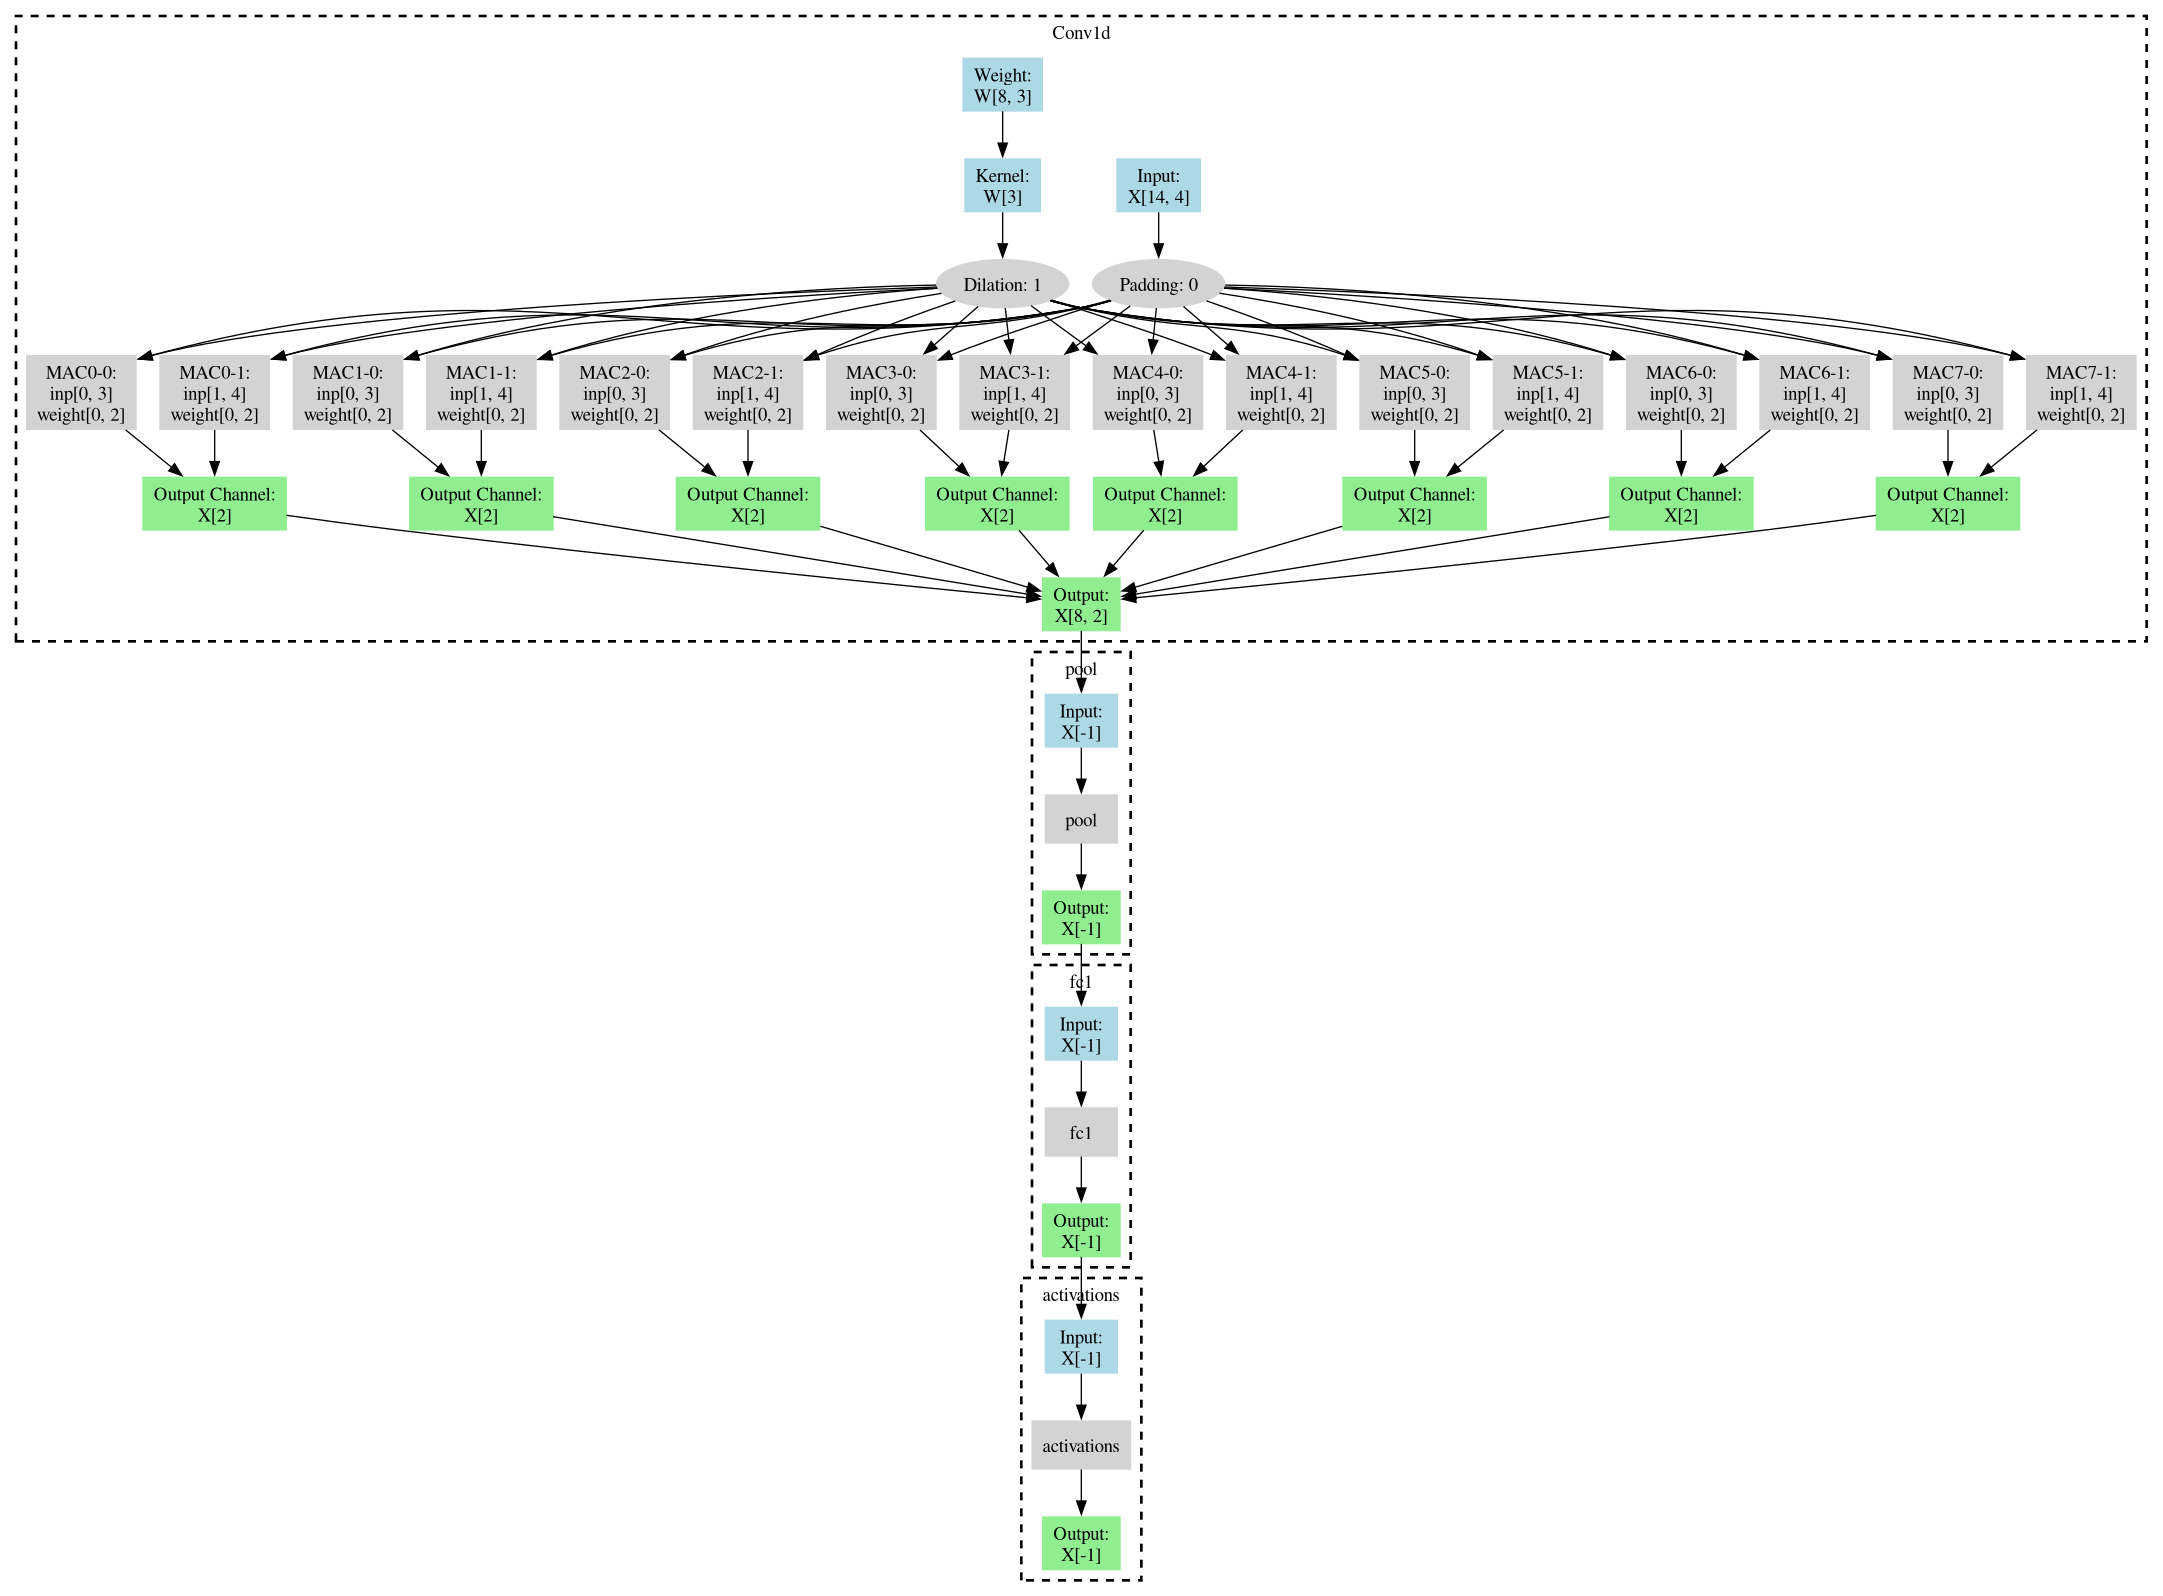
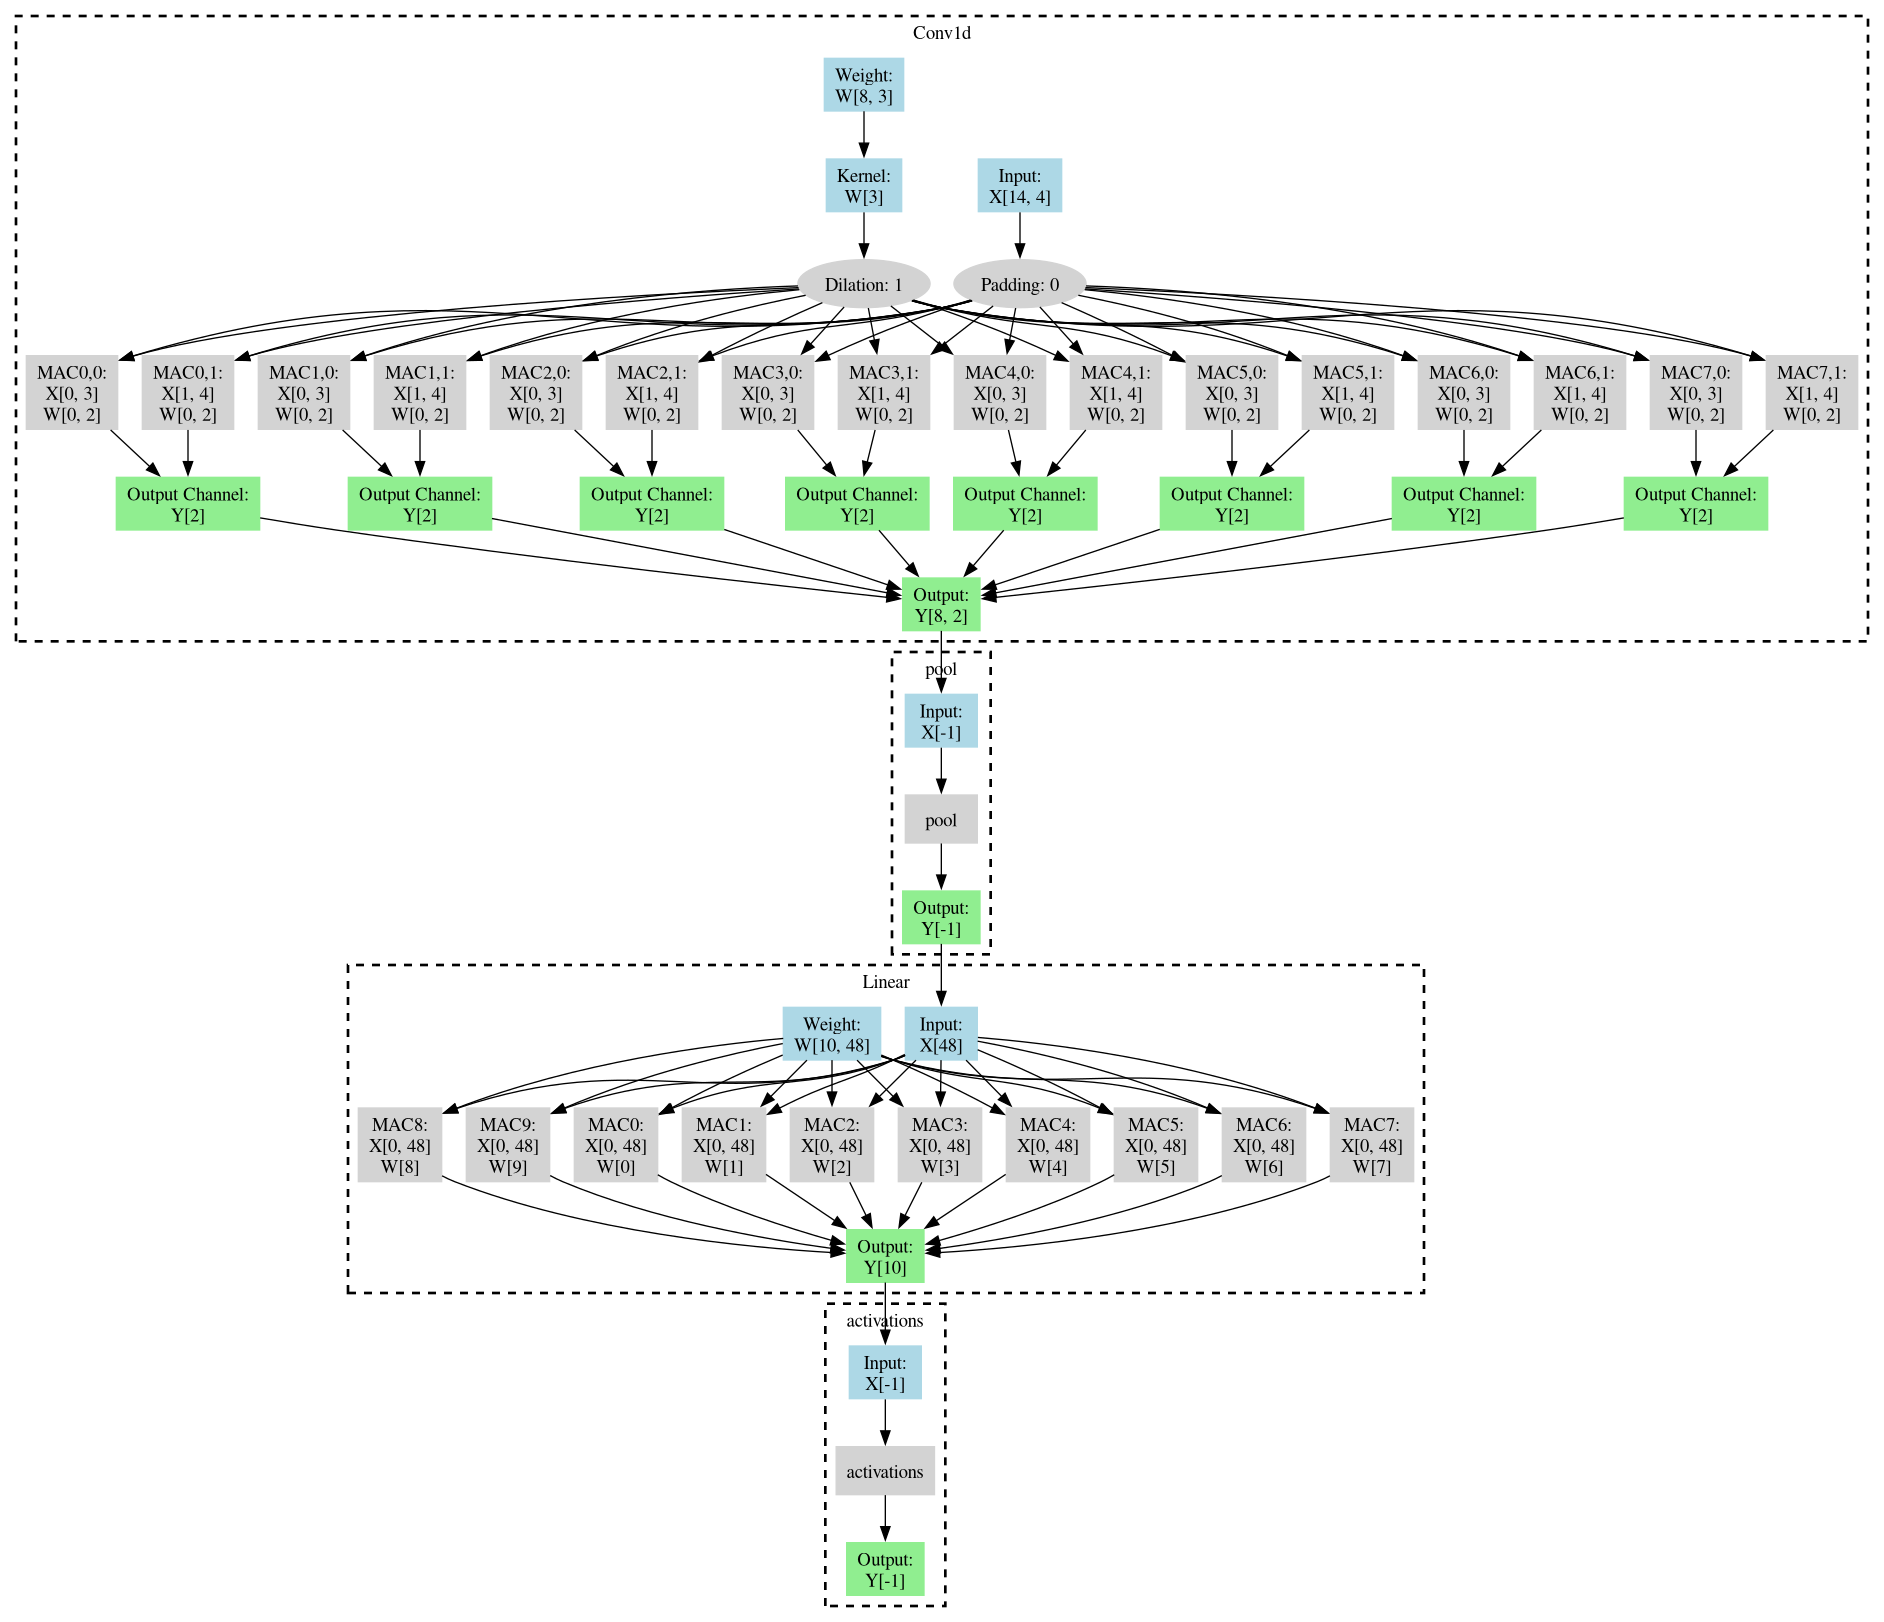
linear layer implemented

Changed region(s): [[0.0, 0.0, 1.0, 1.0], [0.9851, 0.307, 1.0, 0.3991], [0.0, 0.3684, 0.0308, 0.3991]]

diff --git a/visualizer/graph.py b/visualizer/graph.py
@@ -64,8 +64,8 @@ class MacOP(Operation):
 
     def get_label(self):
         printable = self.label + ":" 
-        printable += "\ninp" + str(self.input_index) 
-        printable += "\nweight" + str(self.weight_index)
+        printable += "\nX" + str(self.input_index) 
+        printable += "\nW" + str(self.weight_index)
         return printable
 
 class ConstOP(Operation):
@@ -95,7 +95,7 @@ class OutputOP(Operation):
 
     def get_label(self):
         printable = self.label + ":" 
-        printable += "\nX" + str(self.shape)
+        printable += "\nY" + str(self.shape)
         return printable
 
 class Layer: # node
@@ -185,7 +185,7 @@ class Conv1dLayer(Layer):
         
         self._build_operations()
 
-    def get_torch(self, x):
+    def get_torch(self):
         return nn.Conv1d(
                 in_channels=self.in_channels,
                 out_channels=self.out_channels,
@@ -234,14 +234,41 @@ class Conv1dLayer(Layer):
         return (self.input_length + 2 * self.padding - self.dilation * (self.kernel_size - 1) - 1) // self.stride + 1
 
 class LinearLayer(Layer):
-    def __init__(self, in_features, out_features, input_length):
-        super().__init__(LayerType.LINEAR)
+    def __init__(self, name, in_features, out_features):
+        super().__init__(name, LayerType.LINEAR, "Linear", False)
         self.in_features=in_features
         self.out_features=out_features
-        self.input_length=input_length
 
-    def _build_operations():
-        pass
+        self._build_operations()
+
+    def get_torch(self):
+        return nn.Linear(
+                in_features=int(self.in_features),
+                out_features=int(self.out_features)
+            )
+
+    def _build_operations(self):
+        # blue
+        self.add_node(ConstOP("Weight" + self.name, [self.out_features, self.in_features], "Weight"))
+        self.add_node(InputOP("Input" + self.name, [self.in_features]))
+        self.add_input_name(self.nodes[-1].get_name())
+
+        #green
+        self.add_node(OutputOP("Output" + self.name, [self.out_features]))
+        self.add_output_name(self.nodes[-1].get_name())
+
+        #macs
+        for i in range(self.out_features):
+            
+            mac_node_name = f'Mac{self.name}_{i}'
+            input_start = 0
+            weight_start = 0 
+
+            self.add_node(MacOP(mac_node_name, [input_start, input_start+self.in_features],
+                            [i], "MAC" + str(i)))
+            self.add_edge('Input' + self.name, mac_node_name)
+            self.add_edge('Weight' + self.name, mac_node_name)
+            self.add_edge(mac_node_name, 'Output' + self.name)
 
 class Graph():
     def __init__(self, file_path='./model2.pkl', output_path='./visualizer', excluded_params = ["weight"]):
@@ -347,46 +374,22 @@ class Graph():
     def _build_layer(self, name, input_len=4):
         layer = None
         if self._get_layer_type(name) == 'conv1d':
-            torch_layer = nn.Conv1d(
-                in_channels=int(self.pkl_dump[name]['in_channels']),
-                out_channels=int(self.pkl_dump[name]['out_channels']),
-                kernel_size=int(self.pkl_dump[name]['kernel_size'][0]),
-                stride=int(self.pkl_dump[name]['stride'][0]),
-                padding=int(self.pkl_dump[name]['padding'][0])
-            )
-            kernel_size = torch_layer.kernel_size[0]
-            padding = torch_layer.padding[0]
-            stride = torch_layer.stride[0]
-            dilation = torch_layer.dilation[0]
-            num_input_channels = torch_layer.in_channels
-            num_output_channels = torch_layer.out_channels
-            layer = Conv1dLayer(name, torch_layer.in_channels, torch_layer.out_channels,
-                            kernel_size, input_len, stride, padding, dilation) # may add sparsity
+            in_channels=int(self.pkl_dump[name]['in_channels'])
+            out_channels=int(self.pkl_dump[name]['out_channels'])
+            kernel_size=int(self.pkl_dump[name]['kernel_size'][0])
+            stride=int(self.pkl_dump[name]['stride'][0])
+            padding=int(self.pkl_dump[name]['padding'][0])
+            dilation = 1 # change if added
 
-        # elif self._get_layer_type(name) == 'linear':
-        #     linear_layer = nn.Linear(
-        #         in_features=int(self.pkl_dump[name]['in_features']),
-        #         out_features=int(self.pkl_dump[name]['out_features'])
-        #     )
-        #     x = self.pkl_dump[name]["_parameters"]["weight"].shape
+            layer = Conv1dLayer(name, in_channels, out_channels, kernel_size,
+                                input_len, stride, padding, dilation) # may add sparsity
 
-        #     num_input_features = linear_layer.in_features
-        #     num_output_features = linear_layer.out_features
+        elif self._get_layer_type(name) == 'linear':
+            in_features = int(self.pkl_dump[name]['in_features'])
+            out_features = int(self.pkl_dump[name]['out_features'])
 
-        #     output_size = num_output_features
-
-        #     dot.node('Input' + str(name), f'Input: x{str([num_input_features])}', shape='box', style='filled', color='lightblue')
-        #     dot.node('Weight' + str(name), 'Weight: w' + str([num_output_features, num_input_features]), shape='box', style='filled', color='lightblue')
-        #     dot.node('Output' + str(name), f'Output: y{[num_output_features]}', shape='box', style='filled', color='lightgreen')
-
-        #     for i in range(num_output_features):              
-        #         mac_node_name = f'MAC{name}_{i}'
-                
-        #         dot.node(mac_node_name, f'MAC {i}' + f'\nusing: x, w[{i}]', shape='box', style='filled', color='lightgrey')
-        #         dot.edge('Weight' + str(name), mac_node_name)
-                
-        #         dot.edge('Input' + str(name), mac_node_name)
-        #         dot.edge(mac_node_name, 'Output' + str(name))
+            layer = LinearLayer(name, in_features, out_features)
+            
         else:
             layer = Layer(name, LayerType.UNKNOWN, name)
 
